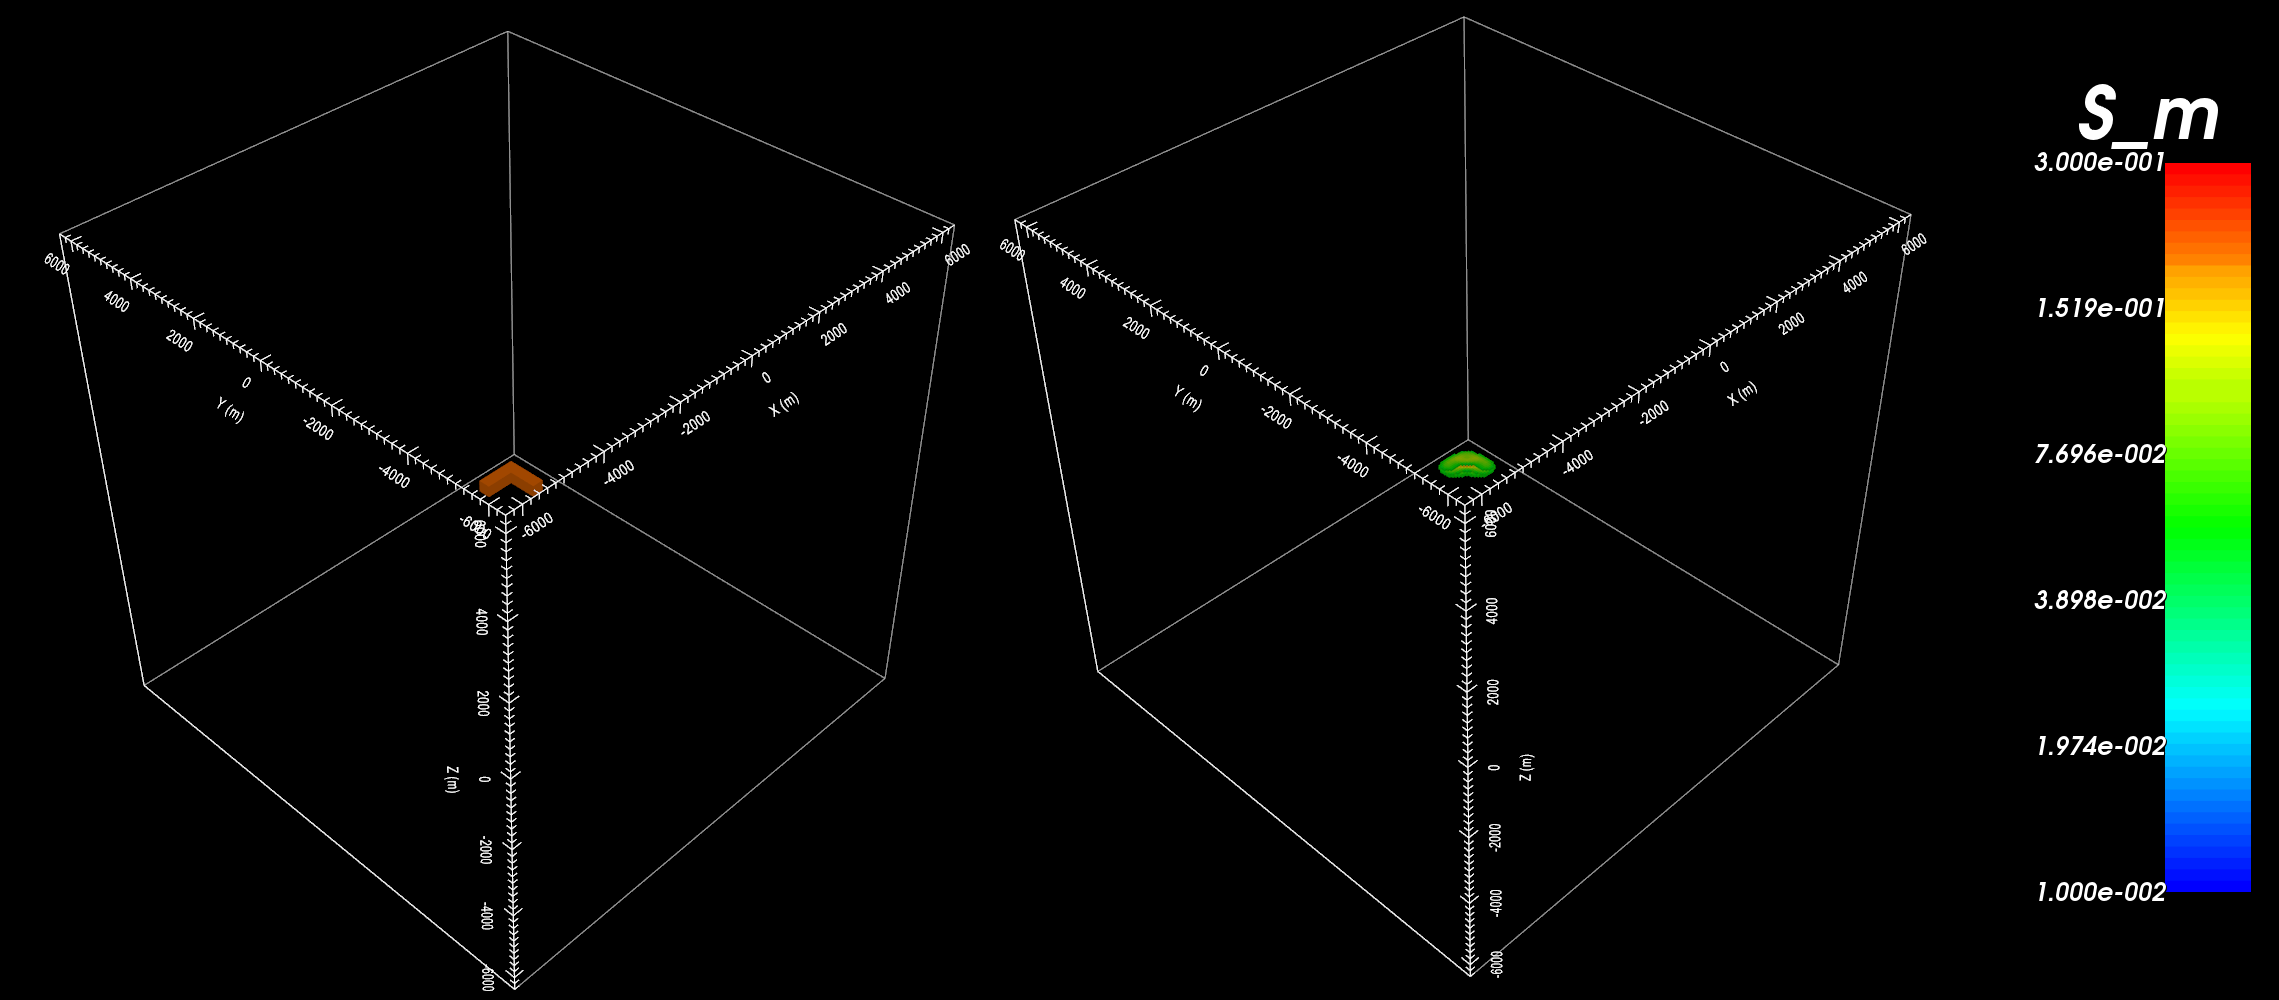
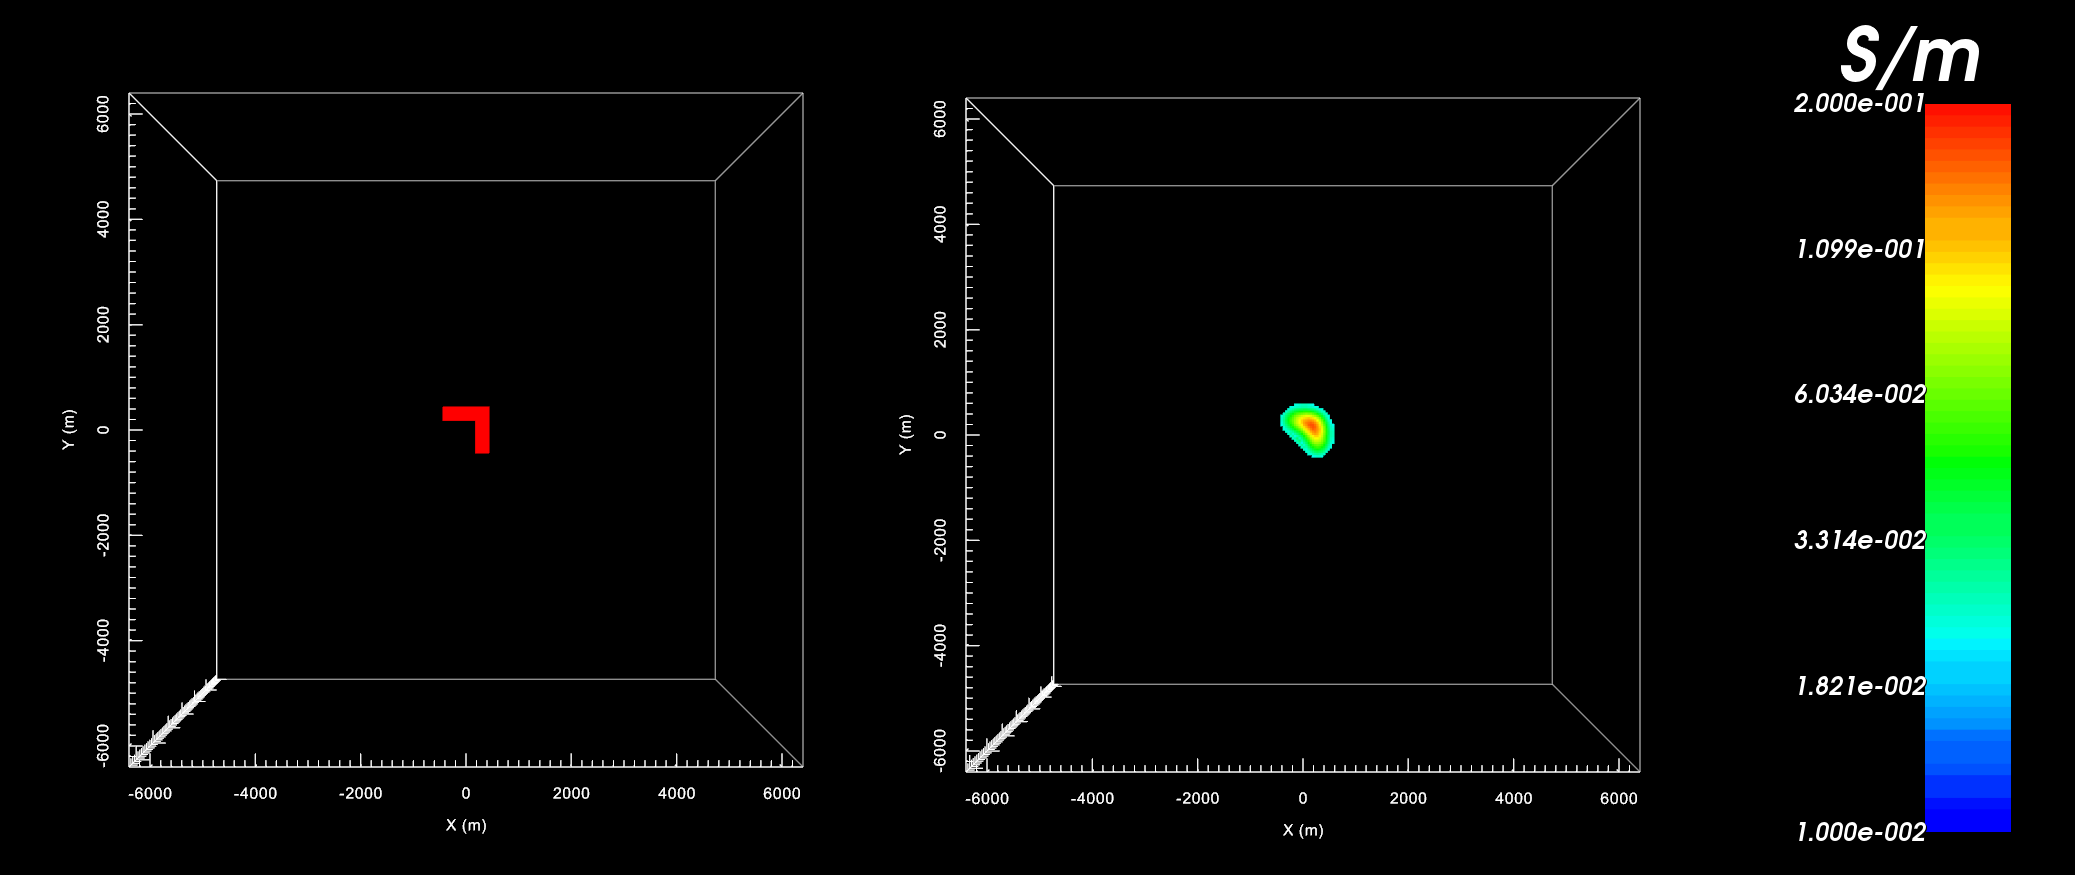
update inversion example

diff --git a/content/example/inv.rst b/content/example/inv.rst
@@ -3,7 +3,7 @@
 Inversion
 =========
 
-Here, the code **e3dinv_ver2_tiled.exe** and the input file **e3dinv.inp** (:ref:`see format <e3d_input_inv>`) are used to invert Hz data. FEM data were created in the example ":ref:`forward modeling<example_fwd>`". Basic uncertainties were added for the sake of keeping the example simple. In practice, data are noisy and choosing appropriate uncertainties is very important for successful inversion. Files relevant to this part of the example are in the sub-folder *inv*. Before running this example, you may want to do the following:
+Here, the code **e3dinv_ver2_tiled.exe** and the input file **e3dinv.inp** (:ref:`see format <e3d_input_inv>`) are used to invert Hz data. FEM data were created in the example ":ref:`forward modeling<example_fwd>`". To create uncertainties, we forward modeled the data for a vacuum (primary field) then subtracted the primary field from the observed data to obtain the secondary field. :math:`10^{-9} \; H/m \; \pm 5\%` of the secondary field was used as the uncertainties. In practice, data are noisy and choosing appropriate uncertainties is very important for successful inversion. Files relevant to this part of the example are in the sub-folder *inv*. Before running this example, you may want to do the following:
 
 	- `Download and open the zip folder containing the entire E3D version 2 tiled example <https://github.com/ubcgif/E3D/raw/e3dinv_ver2_tiled/assets/E3D_manual_ver2_tiled.zip>`__ (if not done already)
 	- :ref:`Learn how to run code from command line <e3d_inv>`
@@ -16,7 +16,7 @@ To invert the synthetic data, the input file below was used:
      :width: 700
 
 
-The true model (left) and recovered model (right) at iteration 4 are shown below. A cutoff of 0.05 S/m has been used for both models. We should note some things about the inversion:
+The true model (left) and recovered model (right) at iteration 4 are shown below. A cutoff of 0.0225 S/m has been used for both models. We should note some things about the inversion:
 
 	- We inverted data at only two frequencies (25 Hz and 2500 Hz)
 	- We only inverted the vertical component of the total magnetic field
@@ -24,7 +24,7 @@ The true model (left) and recovered model (right) at iteration 4 are shown below
 
 The inversion places a conductive body in the appropriate location and is able to resolve the surface of the conductor. Given the minimal number of frequencies and field components being inverted in the example, the data were still able to resolve the shape of the conductor to a reasonable degree. For this case however, the inversion does not locate the bottom of the conductor.
 
-.. .. figure:: images/inv2.png
-..      :align: center
-..      :width: 700
+.. figure:: images/inv_tiled.png
+     :align: center
+     :width: 700
 
